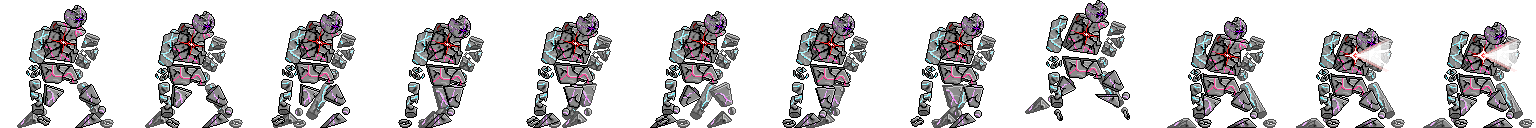
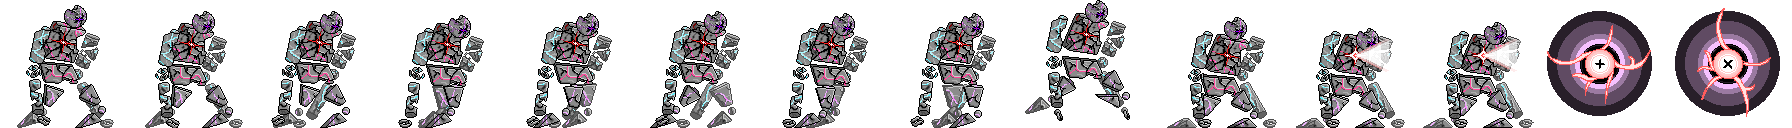
ok

diff --git a/js/GameStates/level1.js b/js/GameStates/level1.js
@@ -90,7 +90,7 @@ for(let i=0; i<100; i++)
 	//bullets[i].img.src="images/mrt.jpg"
 	bullets[i].makeSprite(playerData)
 	bullets[i].y=-10000
-	bullets[i].changeState(`walk`)
+	bullets[i].changeState(`bullet`)
 }
 
 //console.log(bullets)
@@ -161,7 +161,7 @@ gameStates[`level1`] = function()
 			shotTimer = shotDelay
 			//console.log(`Boom`)
 
-			bullets[currentBullet].vx = 5*wiz.dir;
+			bullets[currentBullet].vx = 2.5*wiz.dir;
 			bullets[currentBullet].world = level;
 			bullets[currentBullet].x = wiz.x-level.x + (wiz.dir * 96) ;
 			bullets[currentBullet].y = wiz.y + 20;
@@ -299,7 +299,7 @@ gameStates[`level1`] = function()
 	//Moves, checks collision and renders projectiles.
 	for(let i=0; i<bullets.length; i++)
 	{
-		if(bullets[i].overlap(stage)) bullets[i].vy+=1;
+		if(bullets[i].overlap(stage)) bullets[i].vy;
 		bullets[i].move()
 		bullets[i].play(function(){return}).drawSprite()
 		//bullets[i].angle+=10

diff --git a/js/Data/player.js b/js/Data/player.js
@@ -86,6 +86,16 @@ var playerData ={
 				{width:128, height:128, startX:1408, startY:0}
 				
 			]
+		},
+		bullet:
+		{
+			fps:2,
+			cycle:true,
+			frames:
+			[
+				{width:128, height:128, startX:1536, startY:0},
+				{width:128, height:128, startX:1664, startY:0}
+			]
 		}
 	}
 		
